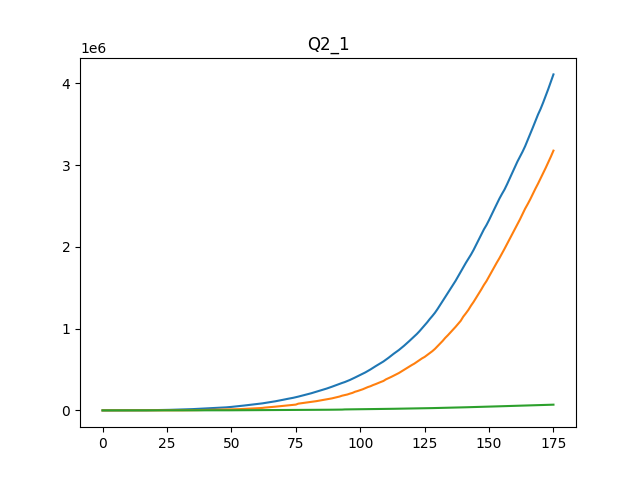
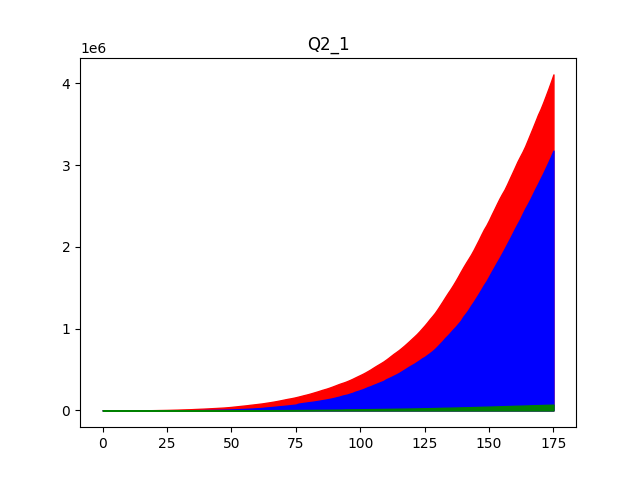
Label

Changed region(s): [[0.1562, 0.1562, 0.875, 0.875]]

diff --git a/Assn1.py b/Assn1.py
@@ -374,9 +374,13 @@ def Q2_1(json_file_path, start_date, end_date):
 
     name = "Q2_1"
     plt.title(name)
-    plt.plot(confirmed_X, confirmed_Y, label="Confirmed")
-    plt.plot(recovered_X, recovered_Y, label="Recovered")
-    plt.plot(deceased_X, deceased_Y, label="Deceased")
+    # fig, (ax1) = plt.subplots(1,1)
+    # plt.plot(confirmed_X, confirmed_Y, label="Confirmed")
+    # plt.plot(recovered_X, recovered_Y, label="Recovered")
+    # plt.plot(deceased_X, deceased_Y, label="Deceased")
+    plt.fill_between(confirmed_X, 0, confirmed_Y, color='red', label="Confirmed")
+    plt.fill_between(recovered_X, 0, recovered_Y, color='blue', label="Recovered")
+    plt.fill_between(deceased_X, 0, deceased_Y, color='green', label="Deceased")
 
     plt.savefig(name, dpi=100)
     plt.show()
@@ -408,9 +412,13 @@ def Q2_2(json_file_path, start_date, end_date):
 
     name = "Q2_2"
     plt.title(name)
-    plt.plot(confirmed_X, confirmed_Y, label="Confirmed")
-    plt.plot(recovered_X, recovered_Y, label="Recovered")
-    plt.plot(deceased_X, deceased_Y, label="Deceased")
+    # fig, (ax1) = plt.subplots(1,1)
+    # plt.plot(confirmed_X, confirmed_Y, label="Confirmed")
+    # plt.plot(recovered_X, recovered_Y, label="Recovered")
+    # plt.plot(deceased_X, deceased_Y, label="Deceased")
+    plt.fill_between(confirmed_X, 0, confirmed_Y, color='red', label="Confirmed")
+    plt.fill_between(recovered_X, 0, recovered_Y, color='blue', label="Recovered")
+    plt.fill_between(deceased_X, 0, deceased_Y, color='green', label="Deceased")
 
     plt.savefig(name, dpi=100)
     plt.show()
@@ -442,7 +450,9 @@ def Q2_3(json_file_path, start_date, end_date):
 
     name = "Q2_3"
     plt.title(name)
-    plt.plot(active_X, active_Y, label="Active")
+    # fig, (ax1) = plt.subplots(1,1)
+    # plt.plot(active_X, active_Y, label="Active")
+    plt.fill_between(active_X, 0, active_Y, color='red', label="Active")
 
     plt.savefig(name, dpi=100)
     plt.show()
